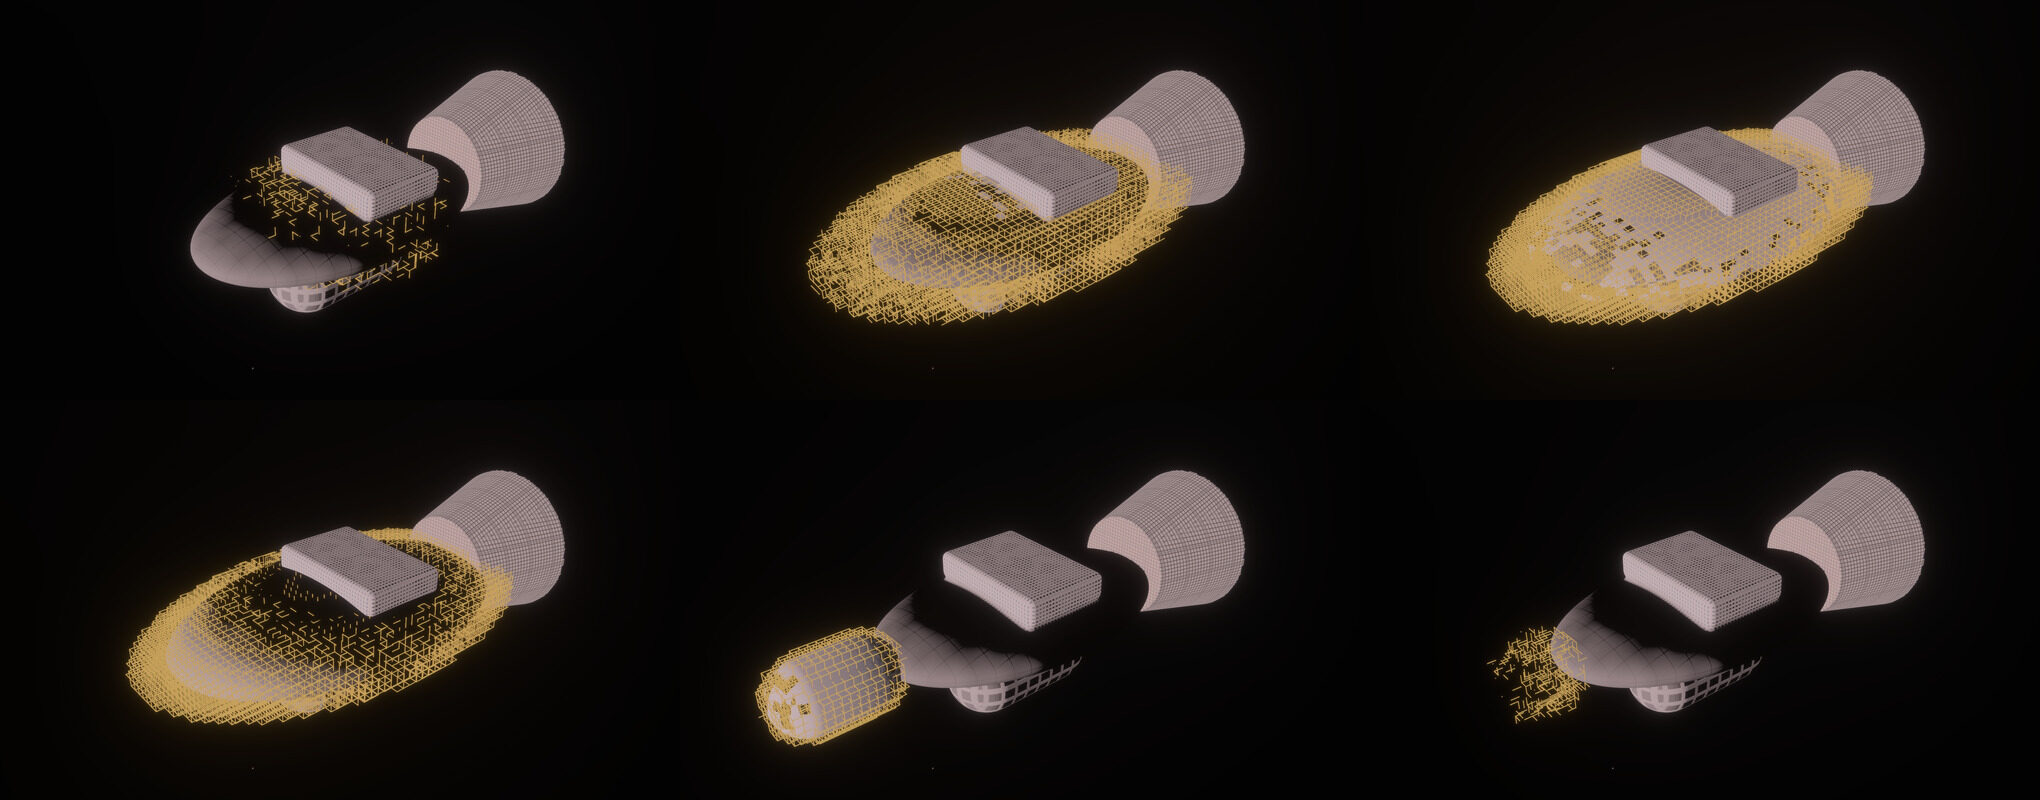
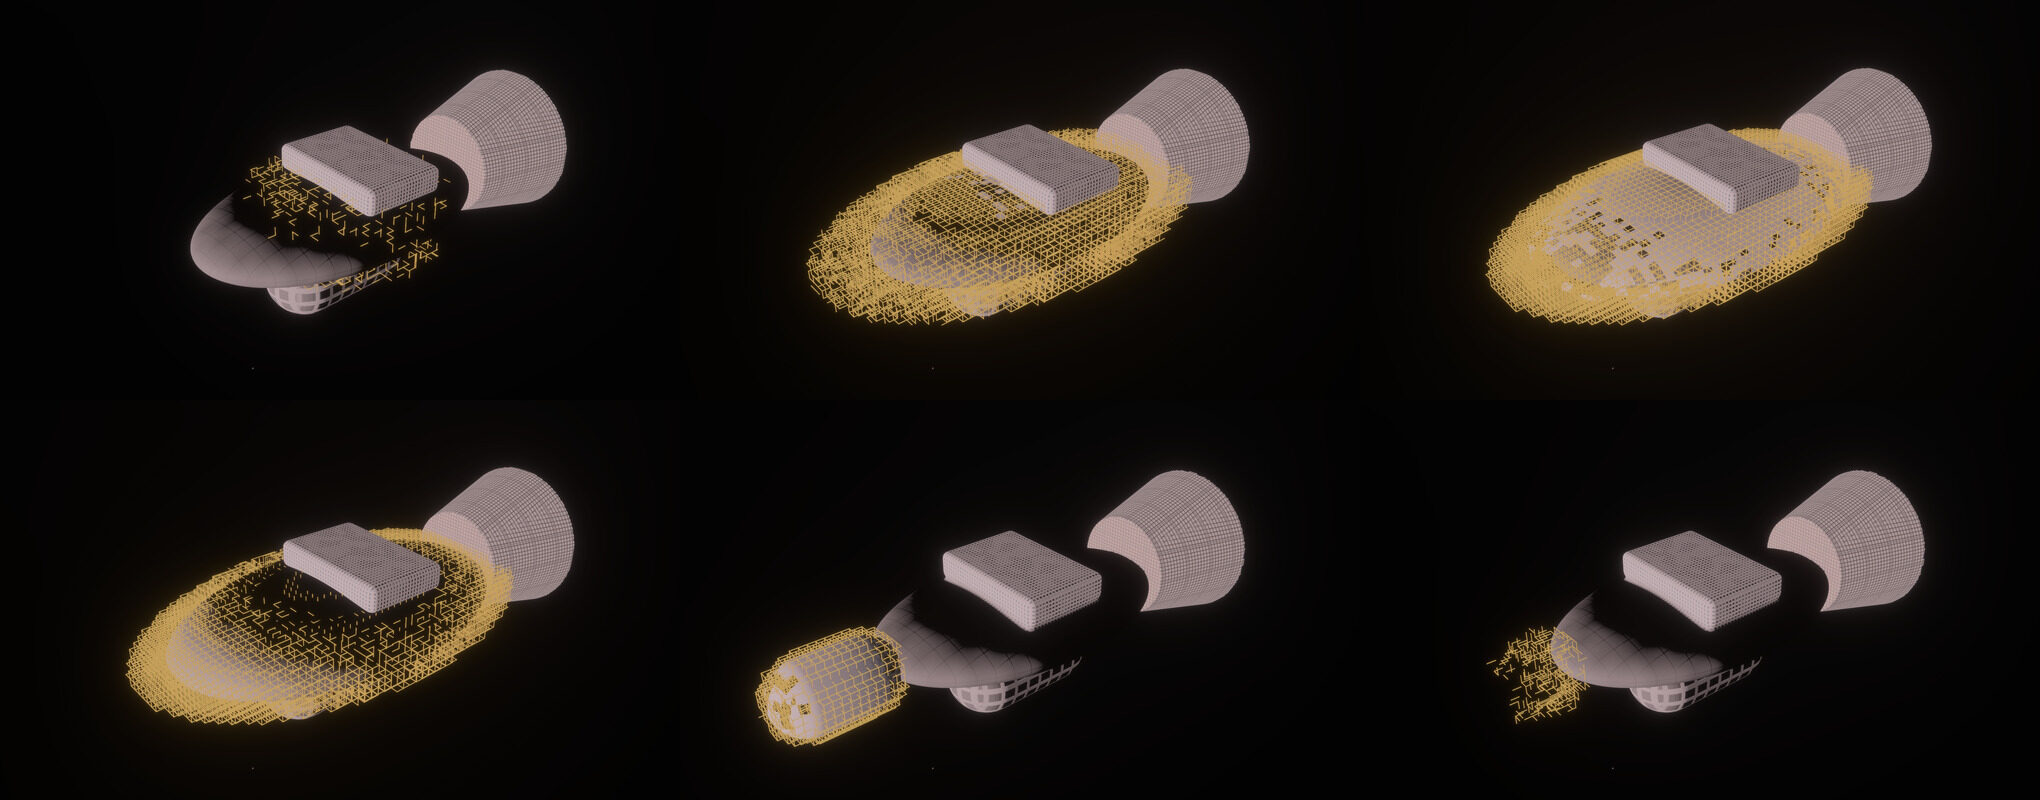
R8 review: a passed step stays as it ended, and children ride a resized part
A generation drawn past its step's end now takes the step's own end sweep, so
a dismantled part stays gone while the next step meshes instead of coming
back finished. What hangs from a growing or shrinking part is taken out of
what stands and posed from Frame::pieces each frame, as a move's carried
copies are, and the truss keeps out of where it will stand. Construction in
the game now points at R15. Knuckles read their band where their earliest
girder does, Sweep::look snaps to finished as Look::built does, and truss.rs
links 32 rather than repeating it.

diff --git a/crates/lc-client/src/refit_hull.rs b/crates/lc-client/src/refit_hull.rs
@@ -1,6 +1,7 @@
 //! `--demo refit` drawn on the hull meshes (R2) in the hull material (R3), with the truss (R8).
 //!
-//! The game keeps its placeholders until R10. The demo cannot: plating is a mask on R3's material,
+//! The game keeps its placeholders until R10, and draws construction this way from R15. The demo
+//! cannot wait: plating is a mask on R3's material,
 //! and means nothing on a Bevy primitive. So under `--demo refit` the whole ship is meshed, and
 //! [`crate::parts`] stands aside.
 //!
@@ -25,6 +26,7 @@ use lc_world::form::sdf::{Piece, Sdf};
 use lc_world::form::{Form, Kind, PartId, SparMode};
 
 use crate::construction::{Frame, Refit, Sweep};
+use lc_world::refit::rounds::Phase;
 use crate::hull::{ALBEDO, Eye, lighting, lit};
 use crate::hull_mesh::{Finish, HullForm, HullMeshPlugin, HullMeshState, HullSource, REGION_GRAPHS, Union, region};
 use crate::procedural::{Bakes, Shape, Target, placeholder};
@@ -35,8 +37,8 @@ use crate::truss::{self, GIRDER_RADIUS_M, PITCH_M, TrussBuffers};
 const TILE_M: f32 = 64.0;
 const TILE_TEXELS: u32 = 512;
 
-/// Lights by kind, as shares of the exposure's reference. A stand-in for R10's powers: bright
-/// enough to read on a night side, lost on a lit one.
+/// Lights by kind, as shares of the exposure's reference. A stand-in until R15 gives them real
+/// powers: bright enough to read on a night side, lost on a lit one.
 fn lights(kind: &str) -> Vec3 {
     match kind {
         "drone" => 0.02 * Vec3::new(0.85, 0.92, 1.0),
@@ -142,6 +144,9 @@ struct Sliver {
     truss: Option<Task<Option<TrussBuffers>>>,
     /// Whether a girder mesh stands in for the lattice; `None` until its task lands.
     meshed: Option<bool>,
+    /// How the step leaves the copy, drawn once the clock is past it and until the next step's
+    /// meshes land: a part taken apart stays gone.
+    end: Option<Sweep>,
 }
 
 /// What a mesh under a [`Generation`] is.
@@ -207,7 +212,8 @@ pub fn draw_refit(
 
     for (root, mut generation, mut transform, mut visibility) in &mut generations {
         *transform = placed;
-        let working = frame.working.as_ref().filter(|_| generation.key == key);
+        let current = generation.key == key;
+        let working = frame.working.as_ref().filter(|_| current);
         for (copy, state) in generation.copies.iter_mut().enumerate() {
             if let Some(task) = state.truss.as_mut()
                 && let Some(done) = check_ready(task)
@@ -228,7 +234,7 @@ pub fn draw_refit(
                 }
             }
             let Some(mut asset) = materials.get_mut(&state.material) else { continue };
-            let sweep = working.and_then(|w| w.sweep(copy));
+            let sweep = if current { working.and_then(|w| w.sweep(copy)) } else { state.end };
             let next = building(&finished, sweep, state.meshed != Some(true));
             if asset.uniforms != next {
                 asset.uniforms = next;
@@ -282,23 +288,31 @@ fn spawn(
     let standing = standing(frame, balance);
     let finish = material(finished.clone());
     let working = frame.working.as_ref();
-    let copies: Vec<Sliver> = working
-        .filter(|w| w.carried.is_empty())
+    let builds = working.filter(|w| w.change.phase() != Phase::Move);
+    let riders: Arc<[Piece]> = working.map_or(Arc::from([]), |w| w.riders.clone().into());
+    let copies: Vec<Sliver> = builds
         .map_or(&[][..], |w| &w.outer[..])
         .iter()
         .enumerate()
         .map(|(n, piece)| {
-            let sweep = working.and_then(|w| w.sweep(n));
-            let (piece, standing) = (*piece, standing.clone());
+            let (sweep, end) = builds.map_or((None, None), |w| (w.sweep(n), w.sweep_at(n, 1.0)));
+            let (piece, standing, riders) = (*piece, standing.clone(), riders.clone());
             let truss = sweep.map(|s| {
                 AsyncComputeTaskPool::get().spawn(async move {
-                    let field = |p: DVec3| standing.distance(p);
+                    // Nor where what rides on the part will stand when it is done.
+                    let riding = Union::new(&riders);
+                    let scratch = std::cell::RefCell::new(Vec::new());
+                    let field = |p: DVec3| {
+                        let scratch = &mut *scratch.borrow_mut();
+                        let on = if riders.is_empty() { f64::INFINITY } else { riding.distance(p, scratch) };
+                        standing.distance(p, scratch).min(on)
+                    };
                     let girders = truss::girders(&piece, &field)?;
                     Some(truss::mesh(&girders, s.joint, s.span_m))
                 })
             });
             let meshed = sweep.is_none().then_some(false);
-            Sliver { material: material(building(finished, sweep, true)), truss, meshed }
+            Sliver { material: material(building(finished, sweep, true)), truss, meshed, end }
         })
         .collect();
 
@@ -316,12 +330,12 @@ fn spawn(
     };
     hull(standing.source(), Drawn::Standing, finish.clone(), Transform::IDENTITY);
     if let Some(w) = working {
-        if w.carried.is_empty() {
+        if w.change.phase() != Phase::Move {
             for (n, piece) in w.outer.iter().enumerate() {
                 hull(HullSource::Pieces(Arc::from([*piece])), Drawn::Working, copies[n].material.clone(), Transform::IDENTITY);
             }
         }
-        for &(part, side) in &w.carried {
+        for (part, side) in w.moving() {
             let Some(piece) = frame.piece(part, side) else { continue };
             let alone = Piece { pose: Pose { position: DVec3::ZERO, rotation: glam::DMat3::IDENTITY }, ..*piece };
             hull(HullSource::Pieces(Arc::from([alone])), Drawn::Carried(part, side), finish.clone(), posed(&piece.pose));
@@ -354,11 +368,11 @@ impl Standing {
         }
     }
 
-    fn distance(&self, p: DVec3) -> f64 {
+    fn distance(&self, p: DVec3, scratch: &mut Vec<f64>) -> f64 {
         match self {
-            Standing::Form(sdf, ..) => sdf.distance(p),
+            Standing::Form(sdf, ..) => sdf.distance_with(p, scratch),
             Standing::Pieces(pieces) if pieces.is_empty() => f64::INFINITY,
-            Standing::Pieces(pieces) => Union::new(pieces).distance(p, &mut Vec::new()),
+            Standing::Pieces(pieces) => Union::new(pieces).distance(p, scratch),
         }
     }
 }
@@ -426,6 +440,51 @@ mod tests {
         assert!(checked > 1000, "{checked}");
     }
 
+    /// Past its end, a step's copies are drawn as it left them: a dismantled part discards every
+    /// point, girders included, and a built one is finished.
+    #[test]
+    fn a_step_passed_is_drawn_as_it_ended() {
+        let plan = demo_round(&B, 1.0).solve(&B).unwrap();
+        let share = |front: f32, width: f32, x: f32| ((front - x) / width).clamp(0.0, 1.0);
+        let mut dismantles = 0;
+        for step in plan.steps() {
+            let frame = Frame::at(&plan, &B, step.begins_s + 0.5 * step.duration_s);
+            let working = frame.working.as_ref().unwrap();
+            let Some(end) = working.sweep_at(0, 1.0) else { continue };
+            let u = building(&HullUniform::default(), Some(end), false);
+            for j in 0..=20 {
+                let x = end.span_m as f32 * j as f32 / 20.0;
+                let truss = share(u.build_fronts.x, u.build_widths.x, x);
+                let plating = share(u.reveal.w, u.reveal_panel.y, x);
+                match step.change.phase() {
+                    Phase::Dismantle => assert!(truss == 0.0 && plating == 0.0, "{x}: {truss} {plating}"),
+                    _ => assert_eq!(end.look(x as f64), crate::construction::Look::FINISHED),
+                }
+            }
+            dismantles += usize::from(step.change.phase() == Phase::Dismantle);
+        }
+        assert!(dismantles > 0);
+    }
+
+    /// What hangs from the growing hull rides out on it: it is out of what stands, posed from the
+    /// frame, and arrives where the grown hull's form places it.
+    #[test]
+    fn what_hangs_from_a_growing_part_rides_out_on_it() {
+        let plan = demo_round(&B, 1.0).solve(&B).unwrap();
+        let step = plan.steps().iter().find(|s| s.change == lc_world::refit::rounds::Change::Grow).unwrap();
+        let at = |f: f64| Frame::at(&plan, &B, step.begins_s + f * step.duration_s);
+        let (early, late) = (at(0.1), at(1.0 - 1e-9));
+        let riders = &early.working.as_ref().unwrap().riders;
+        assert!(riders.len() >= 3, "{riders:?}");
+        for rider in riders {
+            assert!(early.standing.parts.iter().all(|p| p.id != rider.part), "{:?} stands still", rider.part);
+            assert!(early.standing_pieces().iter().all(|p| p.part != rider.part));
+            let (a, b) = (early.piece(rider.part, rider.side).unwrap().pose, late.piece(rider.part, rider.side).unwrap().pose);
+            assert!(a.position.distance(b.position) > 1.0, "{:?} did not ride", rider.part);
+            assert!(b.position.distance(rider.pose.position) < 1e-3, "{:?} ends apart from the grown form", rider.part);
+        }
+    }
+
     /// The truss the demo's grown hull puts up is meshed, and within the budget by a margin.
     #[test]
     fn the_starting_hulls_truss_is_meshed() {
@@ -435,7 +494,7 @@ mod tests {
         let working = frame.working.as_ref().unwrap();
         let standing = standing(&frame, &B);
         assert!(matches!(standing, Standing::Form(..)));
-        let field = |p: DVec3| standing.distance(p);
+        let field = |p: DVec3| standing.distance(p, &mut Vec::new());
         let girders = truss::girders(&working.outer[0], &field).expect("a starting hull's truss meshes");
         assert!((1_000..truss::MAX_GIRDERS / 2).contains(&girders.len()), "{}", girders.len());
     }

diff --git a/crates/lc-client/src/construction.rs b/crates/lc-client/src/construction.rs
@@ -107,6 +107,10 @@ pub struct Sweep {
 impl Sweep {
     pub fn look(&self, x_m: f64) -> Look {
         let x = x_m.clamp(0.0, self.span_m);
+        // As `Look::built`: the far edge finishes exactly with the step.
+        if self.fronts_m[3] - x >= self.widths_m[3] * (1.0 - 1e-12 / SCAFFOLD) {
+            return Look::FINISHED;
+        }
         let ramp = |b: usize| ((self.fronts_m[b] - x) / self.widths_m[b]).clamp(0.0, 1.0);
         let truss = ramp(0);
         Look { truss, plating: ramp(1), fitted: ramp(2), scaffold: truss * (1.0 - ramp(3)) }
@@ -131,6 +135,9 @@ pub struct Working {
     joints: Vec<(DVec3, f64)>,
     /// For a move, every copy carried along with the moved part, itself included.
     pub carried: Vec<(PartId, Side)>,
+    /// For a resize, the copies hanging from the part, where they stand at its larger size. They
+    /// ride out on it, so each frame's are in [`Frame::pieces`].
+    pub riders: Vec<Piece>,
 }
 
 impl Working {
@@ -161,9 +168,14 @@ impl Working {
 
     /// Copy `copy`'s bands in meters. `None` for a move, which builds nothing.
     pub fn sweep(&self, copy: usize) -> Option<Sweep> {
+        self.sweep_at(copy, self.fraction)
+    }
+
+    /// The same at `fraction` through the step: at 1, how the step leaves the copy.
+    pub fn sweep_at(&self, copy: usize, fraction: f64) -> Option<Sweep> {
         let f = match self.change.phase() {
-            Phase::Build => self.fraction,
-            Phase::Dismantle => 1.0 - self.fraction,
+            Phase::Build => fraction,
+            Phase::Dismantle => 1.0 - fraction,
             Phase::Move => return None,
         };
         let (joint, span_m) = self.joints[copy];
@@ -177,6 +189,12 @@ impl Working {
             fronts_m: starts.map(|s| (f - s) * k),
             widths_m: widths.map(|w| w * k),
         })
+    }
+
+    /// Every copy that moves through the step as a whole: what a move carries, and what rides
+    /// out on a resized part.
+    pub fn moving(&self) -> impl Iterator<Item = (PartId, Side)> + '_ {
+        self.carried.iter().copied().chain(self.riders.iter().map(|p| (p.part, p.side)))
     }
 
     /// Each layer averaged across the sliver: what a placeholder with one mesh per part draws.
@@ -252,6 +270,7 @@ impl Frame {
         let keys = |pieces: &[Piece]| pieces.iter().map(|p| (p.part, p.side)).collect::<BTreeSet<_>>();
 
         let mut carried = Vec::new();
+        let mut riders = Vec::new();
         let (pieces, outer, inner) = match s.change {
             Change::Grow | Change::Shrink => {
                 let from = part(before, s.part).expect("a resize has a part to resize");
@@ -260,6 +279,8 @@ impl Frame {
                 let pieces = stand.place(&applied(before, s.part, Some(Part { volume_m3, ..to })));
                 let of = |placed: &[Piece]| placed.iter().filter(|p| p.part == s.part).copied().collect::<Vec<_>>();
                 let (big, small) = if s.change == Change::Grow { (&placed_after, &placed_before) } else { (&placed_before, &placed_after) };
+                let below = subtree(before, s.part);
+                riders = big.iter().filter(|p| p.part != s.part && below.contains(&p.part)).copied().collect();
                 (pieces, of(big), of(small))
             }
             Change::Add => {
@@ -289,26 +310,24 @@ impl Frame {
             }
         };
         let joints = outer.iter().map(|p| joint(p, &after, before)).collect();
-        let standing = match s.change {
-            Change::Grow | Change::Add => before.clone(),
-            Change::Shrink | Change::Remove => after,
-            Change::Move => {
-                let gone: BTreeSet<PartId> = carried.iter().map(|&(id, _)| id).collect();
-                Form { parts: before.parts.iter().filter(|p| !gone.contains(&p.id)).copied().collect() }
-            }
+        let gone: BTreeSet<PartId> = carried.iter().map(|&(id, _)| id).chain(riders.iter().map(|p| p.part)).collect();
+        let end = match s.change {
+            Change::Grow | Change::Add | Change::Move => before,
+            Change::Shrink | Change::Remove => &after,
         };
+        let standing = Form { parts: end.parts.iter().filter(|p| !gone.contains(&p.id)).copied().collect() };
         Frame {
             pieces,
             standing,
             finished,
-            working: Some(Working { step, part: s.part, change: s.change, fraction, outer, inner, joints, carried }),
+            working: Some(Working { step, part: s.part, change: s.change, fraction, outer, inner, joints, carried, riders }),
         }
     }
 
     /// [`Frame::standing`]'s copies, as placed this frame.
     pub fn standing_pieces(&self) -> Vec<Piece> {
         let Some(w) = &self.working else { return self.pieces.clone() };
-        let busy = |p: &Piece| p.part == w.part || w.carried.contains(&(p.part, p.side));
+        let busy = |p: &Piece| p.part == w.part || w.moving().any(|k| k == (p.part, p.side));
         self.pieces.iter().filter(|p| !busy(p)).chain(&w.inner).copied().collect()
     }
 

diff --git a/crates/lc-client/src/truss.rs b/crates/lc-client/src/truss.rs
@@ -1,12 +1,8 @@
 //! The truss a refit step stands up: a lattice of girders at a fixed pitch in meters, square to
 //! the ship's frame, kept where it falls in the sliver's shell. 32 §A build step is a frontier.
 //!
-//! Whole girders rather than the lattice's distance field cut by the shell and meshed. A truss
-//! stops at a node, and a whole girder is one tube, so the cost goes with the girders kept: about
-//! twelve thousand on a starting ship's hull. Surface nets would cost the shell's volume over the
-//! girder's radius cubed, some twenty million samples on the same hull. Past [`MAX_GIRDERS`] there
-//! is no mesh, and the hull shader draws the same lattice on the sliver's surface instead, which
-//! it averages below a pixel as it does any detail. That is every GSV.
+//! Whole girders, so the cost goes with what is kept; past [`MAX_GIRDERS`] the hull shader draws
+//! the lattice on the sliver's surface instead.
 
 use std::collections::HashMap;
 
@@ -148,9 +144,9 @@ pub fn mesh(girders: &[(Girder, bool)], joint: DVec3, span_m: f64) -> TrussBuffe
     let mut out = TrussBuffers { count: girders.len(), ..default() };
     let r = GIRDER_RADIUS_M;
     let x_of = |p: DVec3| (p.distance(joint).min(span_m)) as f32;
-    // Per node: the earliest girder's threshold, and whether all of them are scaffold, so the
-    // knuckle stands while any of its girders does.
-    let mut nodes: HashMap<[i64; 3], (f64, bool)> = HashMap::new();
+    // Per node: the earliest girder's threshold and where it reads its band, and whether all of
+    // them are scaffold, so the knuckle stands exactly while one of its girders does.
+    let mut nodes: HashMap<[i64; 3], (f64, f32, bool)> = HashMap::new();
     for &(g, scaffold) in girders {
         let (a, b) = g.ends();
         let attribute = [x_of((a + b) / 2.0), g.threshold() as f32, if scaffold { 1.0 } else { 0.0 }, 0.0];
@@ -175,15 +171,18 @@ pub fn mesh(girders: &[(Girder, bool)], joint: DVec3, span_m: f64) -> TrussBuffe
         let mut next = g.node;
         next[g.axis] += 1;
         for node in [g.node, next] {
-            let slot = nodes.entry(node).or_insert((1.0, true));
-            *slot = (slot.0.min(g.threshold()), slot.1 && scaffold);
+            let slot = nodes.entry(node).or_insert((1.0, attribute[0], true));
+            if g.threshold() < slot.0 {
+                (slot.0, slot.1) = (g.threshold(), attribute[0]);
+            }
+            slot.2 &= scaffold;
         }
     }
     let mut nodes: Vec<_> = nodes.into_iter().collect();
     nodes.sort_by_key(|(node, _)| *node);
-    for (node, (threshold, scaffold)) in nodes {
+    for (node, (threshold, x, scaffold)) in nodes {
         let at = node_at(node);
-        let attribute = [x_of(at), threshold as f32, if scaffold { 1.0 } else { 0.0 }, 0.0];
+        let attribute = [x, threshold as f32, if scaffold { 1.0 } else { 0.0 }, 0.0];
         let base = out.positions.len() as u32;
         let tips = [DVec3::X, DVec3::NEG_X, DVec3::Y, DVec3::NEG_Y, DVec3::Z, DVec3::NEG_Z];
         for t in tips {

diff --git a/lightcone/docs/32-ship-rendering.md b/lightcone/docs/32-ship-rendering.md
@@ -176,18 +176,21 @@ outer size: rings and meridians through `Shape::exit` from the part's center, so
 every primitive, drawn as tubes in `BodyWireframeMaterial`. The cage's thickness follows the scaffold
 averaged across the sliver, so it goes up with the truss and thins away as the scaffold comes down;
 the crossfade to solid is the solid filling the cage, since both materials are opaque. The game keeps
-this until R10.
+this until R15 draws construction there the way the demo does.
 
 As built for truss and plating (`lc_client::refit_hull`, `lc_client::truss`): **`--demo refit` draws
 the whole ship on the mesher and the hull material**, and the placeholders stand aside. Plating is a
 mask on R3's material and means nothing on a Bevy primitive, so the demo could not wait for R10. A
 step is meshed once, as it starts: the ship it leaves alone (`Frame::standing`, placed as a form, or as
 its bare copies where it hangs from a part not built yet), each copy it works on at its larger size,
-and each copy's truss. Within the step only uniforms move. `Working::sweep` turns `Working::look` into
+and each copy's truss. Within the step only uniforms and poses move: what hangs from a part being
+resized rides out on it, each copy posed every frame from `Frame::pieces`, as a move's carried copies
+are, and the truss keeps out of where those copies will stand. Once the clock passes a step, its copies
+are drawn as the step left them until the next step's meshes land, so a part taken apart stays gone. `Working::sweep` turns `Working::look` into
 meters from the joint, a front and a width a band, which is all the shader needs to give every point
 its own phase; a test holds the two to agreement across every step. A step's meshes are shown only
-once all of them have landed, and the last step's stay up until then. A move meshes each carried copy
-in its own frame and poses it every frame.
+once all of them have landed, and the last step's stay up until then. A carried or riding copy is meshed in its own frame, bare,
+so a fillet it has with the resized part is missing until the step is done.
 
 - **The truss is whole girders, not a distance field meshed.** The lattice is the one described, at
   8 m square to the ship's frame, girders 0.35 m in radius, and it is kept where both of a girder's
